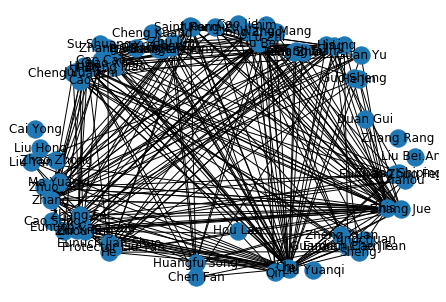
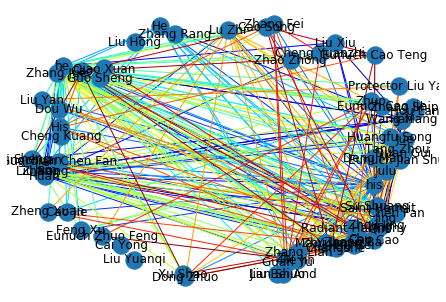
Add files via upload

diff --git a/stanfordnlp.py b/stanfordnlp.py
@@ -1,0 +1,183 @@
+# -*- coding: utf-8 -*-
+"""StanfordNLP
+
+Automatically generated by Colaboratory.
+
+Original file is located at
+    https://colab.research.google.com/drive/1tu46hULUU8W2CMiQcbDu-2VvFb3l7qTf
+"""
+
+!pip install stanfordnlp
+
+# Import stanfordnlp
+import stanfordnlp
+
+# Download the Stanford CoreNLP Java library and unzip it to a ./corenlp folder
+!echo "Downloading CoreNLP..."
+!wget "http://nlp.stanford.edu/software/stanford-corenlp-full-2018-10-05.zip" -O corenlp.zip
+!unzip corenlp.zip
+!mv ./stanford-corenlp-full-2018-10-05 ./corenlp
+
+# Set the CORENLP_HOME environment variable to point to the installation location
+import os
+os.environ["CORENLP_HOME"] = "./corenlp"
+
+from stanfordnlp.server import CoreNLPClient
+
+# Construct a CoreNLPClient with some basic annotators, a memory allocation of 4GB, and port number 9001
+client = CoreNLPClient(annotators=['tokenize','ssplit', 'pos', 'lemma', 'ner'], memory='4G', endpoint='http://localhost:9001')
+print(client)
+
+# Start the background server and wait for some time
+# Note that in practice this is totally optional, as by default the server will be started when the first annotation is performed
+client.start()
+import time; time.sleep(10)
+
+!ps -o pid,cmd | grep java
+
+from google.colab import drive
+drive.mount('/content/gdrive')
+
+with open('/content/gdrive/My Drive/Colab Notebooks/chapter1.txt', 'r') as file:
+  data = file.read().replace('\n', '')
+
+#data = "Such were some of various omens. Emperor Ling, greatly moved by these signs of the displeasure of Heaven, issued an edict asking his ministers for an explanation of the calamities and marvels."
+
+document = client.annotate(data)
+print(type(document))
+
+# Iterate over all detected entity mentions
+print("{:30s}\t{}".format("Mention", "Type"))
+listofchar = []
+for sent in document.sentence:
+    for m in sent.mentions:
+        #print(type(m.entityType))
+        #print("{:30s}\t{}".format(m.entityMentionText, m.entityType))
+        if m.entityType[0] is "P":
+          if m.entityMentionText not in listofchar:
+            listofchar.append(m.entityMentionText)
+
+#!pip install pycorenlp
+#from pycorenlp import StanfordCoreNLP
+nlp = CoreNLPClient(annotators=['tokenize','ssplit', 'pos', 'lemma', 'ner'], memory='4G', endpoint='http://localhost:9001')
+
+def resolve(corenlp_output):
+    """ Transfer the word form of the antecedent to its associated pronominal anaphor(s) """
+    for coref in corenlp_output['corefs']:
+        mentions = corenlp_output['corefs'][coref]
+        antecedent = mentions[0]  # the antecedent is the first mention in the coreference chain
+        for j in range(1, len(mentions)):
+            mention = mentions[j]
+            if mention['type'] == 'PRONOMINAL':
+                # get the attributes of the target mention in the corresponding sentence
+                target_sentence = mention['sentNum']
+                target_token = mention['startIndex'] - 1
+                # transfer the antecedent's word form to the appropriate token in the sentence
+                corenlp_output['sentences'][target_sentence - 1]['tokens'][target_token]['word'] = antecedent['text']
+
+
+def print_resolved(corenlp_output):
+    """ Print the "resolved" output """
+    finishedstring= ""
+    possessives = ['hers', 'his', 'their', 'theirs']
+    for sentence in corenlp_output['sentences']:
+        for token in sentence['tokens']:
+            output_word = token['word']
+            # check lemmas as well as tags for possessive pronouns in case of tagging errors
+            if token['lemma'] in possessives or token['pos'] == 'PRP$':
+                output_word += "'s"  # add the possessive morpheme
+            output_word += token['after']
+            finishedstring += output_word
+    return finishedstring
+
+listofstrings = []
+with open('/content/gdrive/My Drive/Colab Notebooks/chapter1.txt', 'r') as file:
+    listofstrings = file.readlines()
+
+bigstring = ""
+for string in listofstrings:
+  output = nlp.annotate(string, properties= {'annotators':'dcoref','outputFormat':'json','ner.useSUTime':'false'})
+
+  resolve(output)
+
+  #print('\nOriginal:', string)
+  #print('\nResolved: ', end='')
+  bigstring += print_resolved(output)
+print(bigstring)
+
+import nltk
+from nltk import sent_tokenize
+nltk.download('punkt')
+senlist = sent_tokenize(bigstring)
+print(senlist)
+
+print(listofchar)
+
+def getNum(s):
+  if "Positive" in s:
+    return 1
+  if "Negative" in s:
+    return -1
+  if "Neutral" in s:
+    return 0
+  return 0
+
+listofchar.remove('his')
+listofchar.remove("His")
+listofchar.remove('He')
+listofchar.remove('he')
+listofchar.remove('him')
+listofchar.remove("Him")
+for t in listofchar:
+  if "." in t:
+    listofchar.remove(t)
+Graph = [[0 for x in range(len(listofchar))] for y in range(len(listofchar))] 
+
+for i in range(len(listofchar)):
+  for j in range(len(listofchar)):
+    Graph[i][j] = 0 
+for sentence in senlist:
+  print(sentence)
+  for x in range(len(listofchar)):
+    y = x + 1
+    for y in range(len(listofchar)):
+      if listofchar[x] in sentence and listofchar[y] in sentence:
+        result = sentiment.annotate(sentence, properties={ 'annotators': 'sentiment, ner, pos', 'outputFormat': 'json', 'timeout': 60000}) 
+        for s in result['sentences']:
+          score = (s['sentimentValue'], s['sentiment'])
+          num = getNum(score[1])
+          Graph[x][y] += num
+          Graph[y][x] += num
+
+import matplotlib.pyplot as plt
+import matplotlib.colors as colors
+import matplotlib.cm as cmx
+import networkx as nx
+import numpy as np
+dic = {}
+for x in range(len(listofchar)):
+  dic[x] = listofchar[x]
+
+G = nx.from_numpy_matrix(np.array(Graph)) 
+H = nx.relabel_nodes(G, dic)
+edgenum = len(H.edges)
+values = range(edgenum)
+jet = cm = plt.get_cmap('jet') 
+cNorm  = colors.Normalize(vmin=0, vmax=values[-1])
+scalarMap = cmx.ScalarMappable(norm=cNorm, cmap=jet)
+colorList = []
+
+for i in range(edgenum):
+      colorVal = scalarMap.to_rgba(values[i])
+      colorList.append(colorVal)
+
+nx.draw(H,edge_color=colorList, with_labels= True)
+plt.show()
+#nx.draw(H, pos, node_color='b', edgelist=edges, edge_color=weights, width=10.0, edge_cmap=plt.cm.Blues)
+#nx.draw(H, with_labels=True)
+
+# Shut down the background CoreNLP server
+client.stop()
+
+time.sleep(10)
+!ps -o pid,cmd | grep java
